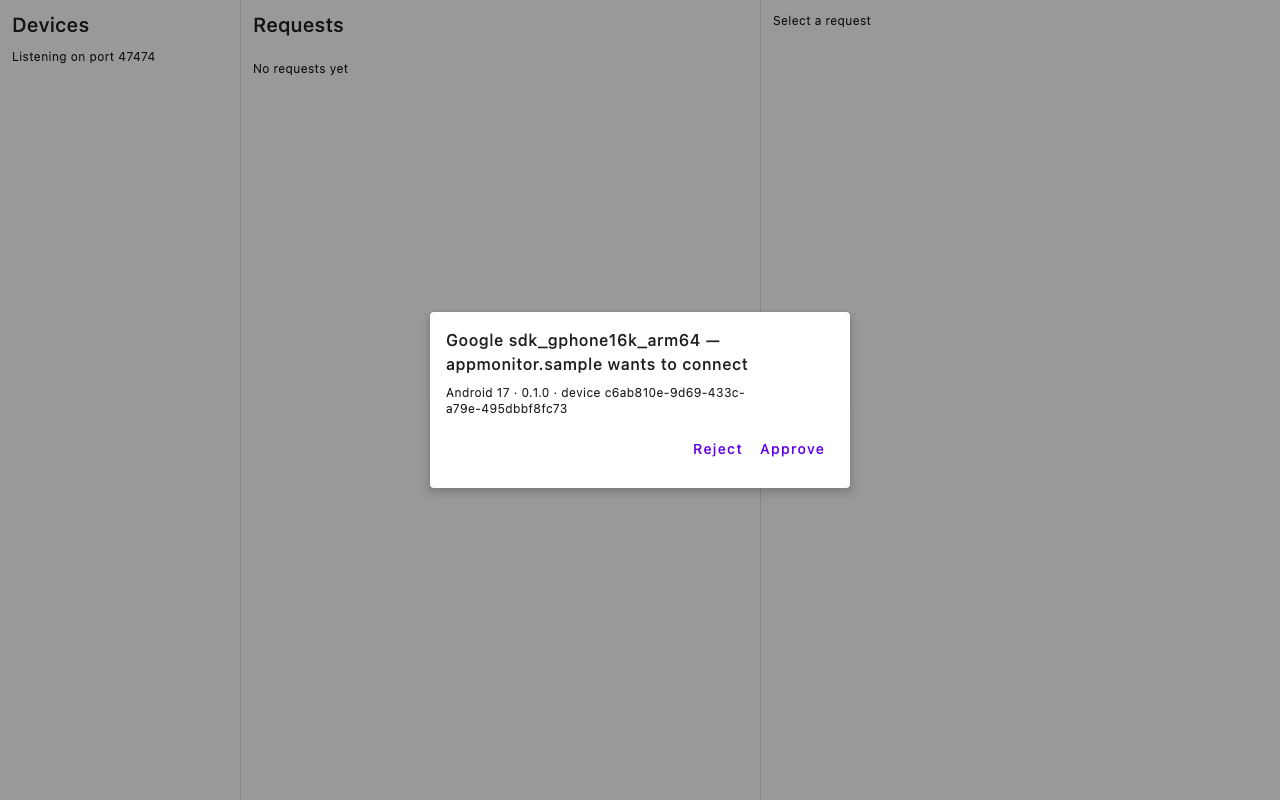
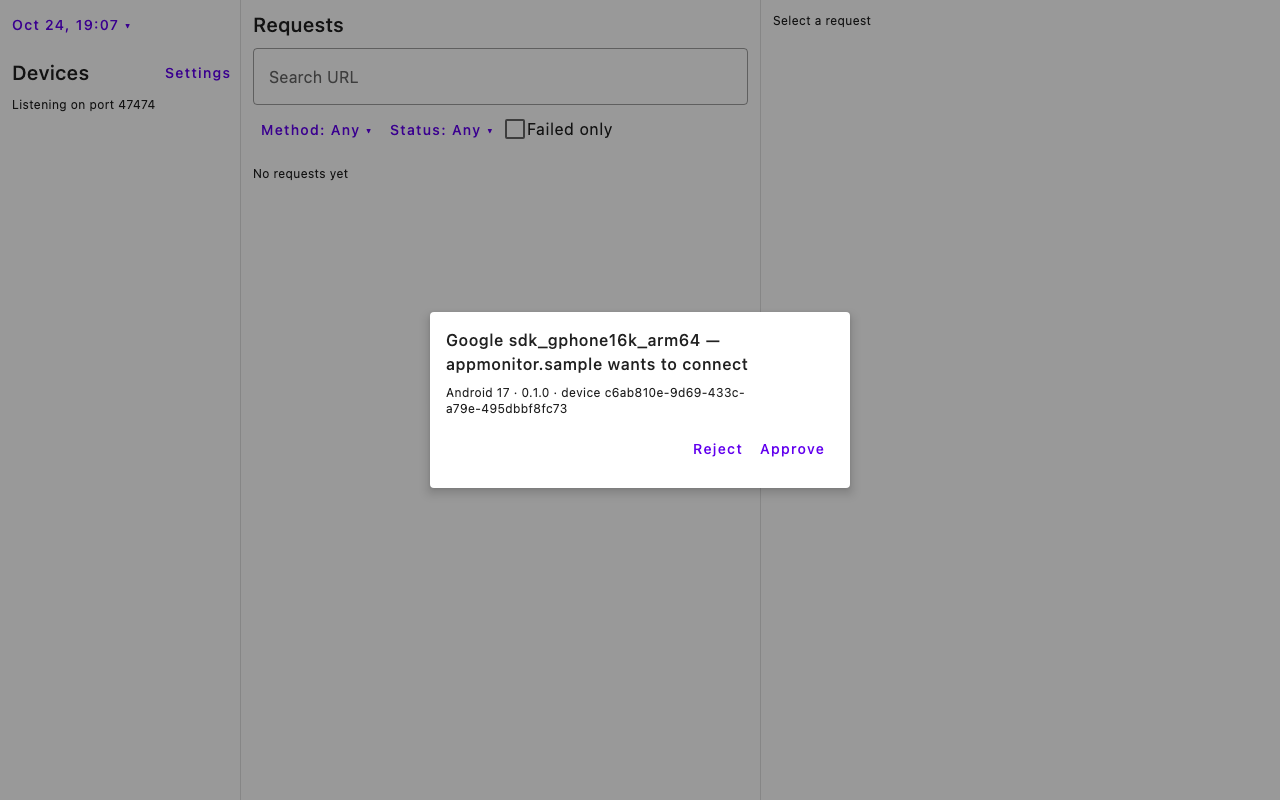
test(desktop): live check across a store reopen and the packaged app (#181)
* test(desktop): live check across a store reopen and the packaged app

* test(desktop): wait for the filtered rows instead of asserting them at once

diff --git a/desktop/app/src/test/kotlin/appmonitor/desktop/app/LiveDeviceScreenshots.kt b/desktop/app/src/test/kotlin/appmonitor/desktop/app/LiveDeviceScreenshots.kt
@@ -2,20 +2,23 @@ package appmonitor.desktop.app
 
 import androidx.compose.runtime.collectAsState
 import androidx.compose.runtime.getValue
+import androidx.compose.runtime.remember
 import androidx.compose.ui.graphics.toAwtImage
 import androidx.compose.ui.test.ComposeUiTest
 import androidx.compose.ui.test.ExperimentalTestApi
 import androidx.compose.ui.test.captureToImage
 import androidx.compose.ui.test.onAllNodesWithText
 import androidx.compose.ui.test.onFirst
+import androidx.compose.ui.test.onNodeWithTag
 import androidx.compose.ui.test.onNodeWithText
 import androidx.compose.ui.test.onRoot
 import androidx.compose.ui.test.performClick
 import androidx.compose.ui.test.v2.runDesktopComposeUiTest
+import appmonitor.desktop.app.store.ApprovalStore
 import appmonitor.desktop.app.store.TrafficStore
 import appmonitor.desktop.app.ui.AppMonitorApp
+import appmonitor.desktop.app.ui.RUNS
 import appmonitor.desktop.server.AppMonitorServer
-import appmonitor.desktop.server.DeviceApprovals
 import appmonitor.desktop.server.ServerConfig
 import appmonitor.desktop.storage.Storage
 import kotlinx.coroutines.CoroutineScope
@@ -24,6 +27,7 @@ import kotlinx.coroutines.cancel
 import kotlinx.coroutines.launch
 import kotlinx.coroutines.runBlocking
 import java.io.File
+import java.nio.file.Path
 import javax.imageio.ImageIO
 import kotlin.io.path.createTempDirectory
 import kotlin.test.Test
@@ -31,7 +35,7 @@ import kotlin.time.Duration.Companion.seconds
 
 /**
  * Not a unit test: run by `liveScreenshots` only, against a real device running the sample (ADR-0031).
- * Real server on the default port with mDNS, the window's composable rendered offscreen.
+ * Real server on the default port with mDNS, the window's composable rendered offscreen, then the store reopened.
  */
 @OptIn(ExperimentalTestApi::class)
 class LiveDeviceScreenshots {
@@ -39,13 +43,19 @@ class LiveDeviceScreenshots {
     private val exchanges = System.getProperty("liveExchanges", "5").toInt()
     private val timeoutMs = System.getProperty("liveTimeoutMs", "300000").toLong()
     private val advertise = System.getProperty("liveAdvertise", "true").toBoolean()
+    private val dir: Path = System.getProperty("liveDataDir")?.let { Path.of(it) } ?: createTempDirectory("live-screenshots")
 
     @Test
-    fun `approve a real device and show its traffic`() {
-        val approvals = DeviceApprovals()
-        val server = AppMonitorServer(ServerConfig(advertise = advertise), approval = approvals)
-        val dir = createTempDirectory("live-screenshots")
+    fun `approve a real device, show its traffic, and again after a reopen`() {
+        capture()
+        reopen()
+    }
+
+    private fun capture() {
+        lateinit var server: AppMonitorServer
         val storage = Storage.open(dir)
+        val approvals = runBlocking { ApprovalStore.open(storage) { server.disconnect(it) } }
+        server = AppMonitorServer(ServerConfig(advertise = advertise), approval = approvals.approvals)
         val store = TrafficStore(storage)
         val scope = CoroutineScope(Dispatchers.Default)
         val port = runBlocking { server.start() }
@@ -54,14 +64,16 @@ class LiveDeviceScreenshots {
             runDesktopComposeUiTest(width = 1280, height = 800) {
                 setContent {
                     val pending by approvals.pending.collectAsState()
+                    val answered by remember { approvals.stored }.collectAsState(emptyList())
                     AppMonitorApp(
                         storage,
                         "Listening on port $port",
                         pending,
-                        { device, approved -> approvals.decide(device.key, approved) },
+                        { device, approved -> scope.launch { approvals.decide(device, approved) } },
+                        answered,
                     )
                 }
-                println("liveScreenshots: listening on $port, mDNS ${if (advertise) "on" else "off"}, waiting for a device")
+                println("liveScreenshots: data in $dir, listening on $port, mDNS ${if (advertise) "on" else "off"}, waiting for a device")
                 waitUntil(timeoutMillis = timeoutMs) { onAllNodesWithText("Approve").fetchSemanticsNodes().isNotEmpty() }
                 screenshot("$name-approval.png")
                 onNodeWithText("Approve").performClick()
@@ -70,16 +82,7 @@ class LiveDeviceScreenshots {
                 waitUntil(timeoutMillis = timeoutMs) {
                     runBlocking { storage.allExchanges() }.count { it.statusCode != null || it.failed } >= exchanges
                 }
-                onAllNodesWithText("/json", substring = true).onFirst().performClick()
-                waitUntil(
-                    timeoutMillis = timeoutMs,
-                ) { onAllNodesWithText("\"slideshow\"", substring = true).fetchSemanticsNodes().isNotEmpty() }
-                screenshot("$name-traffic.png")
-                onAllNodesWithText("echo.websocket.org", substring = true).onFirst().performClick()
-                waitUntil(
-                    timeoutMillis = timeoutMs,
-                ) { onAllNodesWithText("WebSocket frames", substring = true).fetchSemanticsNodes().isNotEmpty() }
-                screenshot("$name-frames.png")
+                showJsonAndFrames()
             }
         } finally {
             scope.cancel()
@@ -89,6 +92,36 @@ class LiveDeviceScreenshots {
             }
         }
     }
+
+    private fun reopen() {
+        val storage = Storage.open(dir)
+        try {
+            runDesktopComposeUiTest(width = 1280, height = 800) {
+                setContent { AppMonitorApp(storage, "Reopened") }
+                println("liveScreenshots: store reopened, opening the earlier run")
+                onNodeWithTag(RUNS).performClick()
+                onAllNodesWithText(" – ", substring = true).onFirst().performClick()
+                waitUntil(timeoutMillis = timeoutMs) { onAllNodesWithText("/json", substring = true).fetchSemanticsNodes().isNotEmpty() }
+                onAllNodesWithText("/json", substring = true).onFirst().performClick()
+                waitFor("\"slideshow\"")
+                screenshot("$name-reopen.png")
+            }
+        } finally {
+            runBlocking { storage.close(5.seconds) }
+        }
+    }
+
+    private fun ComposeUiTest.showJsonAndFrames() {
+        onAllNodesWithText("/json", substring = true).onFirst().performClick()
+        waitFor("\"slideshow\"")
+        screenshot("$name-traffic.png")
+        onAllNodesWithText("echo.websocket.org", substring = true).onFirst().performClick()
+        waitFor("WebSocket frames")
+        screenshot("$name-frames.png")
+    }
+
+    private fun ComposeUiTest.waitFor(text: String) =
+        waitUntil(timeoutMillis = timeoutMs) { onAllNodesWithText(text, substring = true).fetchSemanticsNodes().isNotEmpty() }
 
     private fun ComposeUiTest.screenshot(file: String) {
         val out = File(System.getProperty("liveScreenshotDir"), file)

diff --git a/desktop/app/src/test/kotlin/appmonitor/desktop/app/AppMonitorAppTest.kt b/desktop/app/src/test/kotlin/appmonitor/desktop/app/AppMonitorAppTest.kt
@@ -360,14 +360,14 @@ class AppMonitorAppTest {
                 awaitText(url("feed"))
                 onNodeWithTag(SEARCH).performTextReplacement("ITEMS")
                 waitUntil(timeoutMillis = TIMEOUT_MS) { onAllNodesWithText(url("login")).fetchSemanticsNodes().isEmpty() }
-                onNodeWithText(url("items")).assertExists()
-                onNodeWithText(url("items/missing")).assertExists()
+                awaitText(url("items"))
+                awaitText(url("items/missing"))
                 onNodeWithText(url("feed")).assertDoesNotExist()
 
                 onNodeWithText("Status: Any ▾").performClick()
                 onNodeWithText("4xx").performClick()
                 waitUntil(timeoutMillis = TIMEOUT_MS) { onAllNodesWithText(url("items")).fetchSemanticsNodes().isEmpty() }
-                onNodeWithText(url("items/missing")).assertExists()
+                awaitText(url("items/missing"))
                 onNodeWithText("Status: 4xx ▾").assertExists()
                 screenshot("filters.png")
 
@@ -385,7 +385,7 @@ class AppMonitorAppTest {
                 onNodeWithText("Any").performClick()
                 onNodeWithText("Failed only").performClick()
                 waitUntil(timeoutMillis = TIMEOUT_MS) { onAllNodesWithText(url("items")).fetchSemanticsNodes().isEmpty() }
-                onNodeWithText(url("feed")).assertExists()
+                awaitText(url("feed"))
             }
         }
 

diff --git a/docs/sdd/03_code_map.md b/docs/sdd/03_code_map.md
@@ -22,7 +22,7 @@ Where each part lives in the repository.
 | `protocol/src/` | KMP module: Wire-generated code, `Protocol` constants, `DesktopSelector` (mDNS answer rule, ADR-0024); `commonTest` round-trip and selector, `jvmTest` fixture check (ADR-0008) |
 | `desktop/server/` | JVM module: `AppMonitorServer` (Ktor WebSocket, handshake, frame limit, keep-alive), `EnvelopeRules` (what closes a session with 1002, ADR-0021), `DeviceSession` flows and peer address, `DeviceApproval` / `DeviceApprovals` (who gets `HelloAck`, remembered answers and `forget`, ADR-0027), `disconnect` (a forgotten pair's sessions closed with 1008), `MdnsAdvertiser`, `ServerConfig` (ADR-0009); `shutdownHook` and its default report `printStopFailure` (bounded stop at exit, shared with the app); headless `Main.kt` that logs to stdout (ADR-0010); `AppMonitorServerTest`, `ServerHardeningTest` (1009, ping timeout, envelope rules), `DeviceApprovalTest` (pending, 1008, withdrawal, remembered, forgotten), `MdnsPartialFailureTest`, `ServerLifecycleTest`, `ShutdownHookTest`, `MainTest` (`--port` parsing, startup hook) |
 | `desktop/storage/` | JVM module, SQLDelight on sqlite-jdbc (SDD 09, ADR-0085, ADR-0086): `src/main/sqldelight/` the version-1 schema (`.sq`, one file per table group) and `databases/1.db`, the committed schema migrations are verified against; `Storage` (open, crash recovery, a new run per launch, ingest calls, runs opened and named, approvals, paged reads, search, close), `SearchQuery` (the `WHERE` of an `ExchangeFilter`, ADR-0087), `WriteQueue` (bounded by bytes, one writer thread, `StorageHealth`), `Ingest` (items to rows, one transaction per batch), `Codec` (deflate or raw), `dataDirectory`; `StorageOpenTest`, `IngestTest`, `WriteQueueTest`, `PagingTest`, `ApprovalStoreTest`, `RunsTest`, `SearchTest`, `DataDirectoryTest` |
-| `desktop/app/` | Compose desktop app: `Main.kt` (window + server), `store/` (`TrafficStore` feeding `desktop/storage`, `ApprovalStore` the answers kept in it, ADR-0083, `HttpExchange` the detail model), `ui/` (`App.kt` panes, run picker and run list, request filter bar, frames, approval panel and settings, `BodyFormat.kt` formats, off-thread `renderBody` and chunks) (ADR-0011, ADR-0029); tests for body formats, the store (`TrafficStoreTest`: 10k requests, reopen, paging), approvals across launches (`ApprovalStoreTest`) and the offscreen UI, each on a store in a temporary directory; `LiveDeviceScreenshots`, run only by `liveScreenshots` against a real device (ADR-0031) |
+| `desktop/app/` | Compose desktop app: `Main.kt` (window + server), `store/` (`TrafficStore` feeding `desktop/storage`, `ApprovalStore` the answers kept in it, ADR-0083, `HttpExchange` the detail model), `ui/` (`App.kt` panes, run picker and run list, request filter bar, frames, approval panel and settings, `BodyFormat.kt` formats, off-thread `renderBody` and chunks) (ADR-0011, ADR-0029); tests for body formats, the store (`TrafficStoreTest`: 10k requests, reopen, paging), approvals across launches (`ApprovalStoreTest`) and the offscreen UI, each on a store in a temporary directory; `LiveDeviceScreenshots`, run only by `liveScreenshots` against a real device, reopening its store at the end (ADR-0031) |
 | `tools/e2e-target/` | JVM CLI: `E2eTarget.kt` (Ktor CIO on `127.0.0.1`: the httpbin.org paths the samples call and a WebSocket echo on `/ws`), `Main.kt` (`--port`, prints `Listening on port N` and one line per request); started by `scripts/e2e_lib.sh` (ADR-0074); `E2eTargetTest` |
 | `tools/fake-client/` | JVM CLI: `Discovery.kt` (mDNS through `DesktopSelector`), `Fixtures.kt`, `Replay.kt` (handshake + replay of `protocol/fixtures`) (ADR-0010); `FakeClientTest`, `HandshakeFailureTest`, `MainTest` (CLI errors), `DiscoveryTest` |
 | `sdk/core/` | KMP (JVM, Android, iOS) SDK core, convention `appmonitor.kmp-sdk-ios` (ADR-0023, ADR-0067): `MonitorClient` (states of SDD 04 over a Ktor CIO WebSocket), `EventBuffer` (offline ring buffer), `Backoff`, `Discovery` (sources and mDNS selection, ADR-0024), `MonitorHolder` (start/stop, the process-wide `monitor`), `MonitorBridge` (opt-in `InternalAppMonitorApi` for capture modules, ADR-0025), `AppMonitorOptions` (masking and `maxBodyBytes` included), `DeviceId`, `Platform` (cleartext policy, log, connect failure hint, the device id's link and file lock); `jvmAndAndroidMain` the file lock and parent directories both JVM targets share (ADR-0080); `iosMain` `AppMonitor` (public entry point, ADR-0062 B.1), `BonjourBrowser` (`nw_browser` and `dns_sd`, ADR-0068), `IosDevice` (`Hello`, the Swift SDK's device id file), `Platform.ios` (`NSLog`, Info.plist hint), `isSimulator` from `iosArm64Main` / `iosSimulatorArm64Main`; `androidMain` `AppMonitor` (public entry point), `NsdBrowser`, `AndroidDevice` (`Hello`, permission, emulator), manifest declaring `ACCESS_LOCAL_NETWORK`; `commonTest` buffer, backoff, discovery, device id, `MonitorHolderTest`, `MonitorClientTest` against `StandInDesktop` (`ktor-server-cio`, ADR-0066 C); `iosTest` `PlatformIosTest`, `IosDeviceTest`, `IosDiscoveryTest`, `BonjourBrowserTest` (a real Bonjour round), `LiveServerTest` (`APPMONITOR_LIVE_HOST`, `APPMONITOR_LIVE_DISCOVERY`); `jvmTest` `MonitorClientDesktopTest` against an in-process `AppMonitorServer` |

diff --git a/docs/sdd/02_development_environment.md b/docs/sdd/02_development_environment.md
@@ -53,10 +53,13 @@ Module scripts apply one convention plugin from `build-logic/`:
 
 `./gradlew :desktop:app:liveScreenshots` (ADR-0031) runs the real
 `AppMonitorServer` on port 47474 with the desktop window's composable rendered
-offscreen. It waits up to 5 minutes for a device, screenshots the approval
-panel, approves it, waits for 5 finished exchanges, then screenshots the GET
-JSON and the WebSocket exchanges into `docs/screenshots/<liveName>-*.png`.
-`make desktop` must not be running (same port). The sample is driven by hand:
+offscreen, on a store and approvals like `Main.kt`'s. It waits up to 5
+minutes for a device, screenshots the approval panel, approves it (the answer
+is stored), waits for 5 finished exchanges, then screenshots the GET JSON and
+the WebSocket exchanges; it then closes the store, reopens it, picks the
+earlier run and screenshots its GET JSON again (`<liveName>-reopen.png`). All
+go into `docs/screenshots/<liveName>-*.png`. `make desktop` must not be
+running (same port). The sample is driven by hand:
 
 1. `./gradlew :samples:android:assembleDebug`, then
    `adb -s <serial> install -r samples/android/build/outputs/apk/debug/android-debug.apk`.
@@ -69,7 +72,8 @@ JSON and the WebSocket exchanges into `docs/screenshots/<liveName>-*.png`.
    `adb shell uiautomator dump`); the task ends by itself.
 
 Properties: `liveName`, `liveExchanges` (5), `liveTimeoutMs` (300000),
-`liveAdvertise` (true). The buttons call public services, so the machine and
+`liveAdvertise` (true), `liveDataDir` (a temporary directory; an empty one
+for the approval to be asked). The buttons call public services, so the machine and
 the device need internet.
 
 ### The Android sample end to end, scripted
@@ -199,6 +203,15 @@ prints, so rerun it after adding a dependency. The packages are **unsigned
 build proof**, not releases: macOS Gatekeeper and Windows SmartScreen block
 them until the user overrides (ADR-0055). The app inside listens on 47474
 like `make desktop`.
+
+To check the packaged app on a store a live run left (no Gatekeeper prompt,
+no copy to `/Applications`): mount the image with
+`hdiutil attach -readonly -nobrowse -mountpoint build/live/dmg <dmg>` and run
+`APPMONITOR_DATA_DIR=<liveDataDir> "build/live/dmg/App Monitor.app/Contents/MacOS/App Monitor"`.
+The launch opens a run of its own in the `runs` table, a device approved in
+the live run connects with no prompt and its exchanges land under that run;
+`sqlite3 <liveDataDir>/appmonitor.db` reads them, and a SIGTERM closes the run
+and the sessions. `hdiutil detach build/live/dmg` afterwards.
 
 ## SDK publication dry-run
 

diff --git a/AGENTS.md b/AGENTS.md
@@ -131,7 +131,7 @@ Full rule: `docs/guidelines/03_git_and_pull_requests.md`.
 | Desktop storage tests (open, ingest, write queue, paging, approvals, runs, search, data directory) and migration verification | `./gradlew :desktop:storage:test :desktop:storage:verifySqlDelightMigration` | active; JVM, in `make build`; temporary data directories; SDD 09, ADR-0085 |
 | Regenerate the storage schema dump after a new migration | `./gradlew :desktop:storage:generateMainAppMonitorDatabaseSchema` | active; writes the next `desktop/storage/src/main/sqldelight/databases/<version>.db`, commit it; a shipped one is never edited; ADR-0085 |
 | Desktop app tests (store on a temporary data directory, body formats, offscreen UI) | `./gradlew :desktop:app:test` | active; screenshots in `desktop/app/build/screenshots/` (`app.png`, `approval.png`, `filters.png`, `frames.png`, `reopen.png`, `runs.png`, `settings.png`); `TrafficStoreTest` prints the 10k-request time, `SearchTest` in `desktop/storage` the unindexed search time, `ApprovalStoreTest` restarts the store three times against a real server; SDD 09, ADR-0083 |
-| End to end screenshots from a real device or emulator | `./gradlew :desktop:app:liveScreenshots -PliveName=device` | active; real server on 47474, approves the first device, writes `docs/screenshots/<name>-*.png`; `-PliveAdvertise=false` forces the emulator's `10.0.2.2`; drive the sample by hand, SDD 02, ADR-0031 |
+| End to end screenshots from a real device or emulator | `./gradlew :desktop:app:liveScreenshots -PliveName=device` | active; real server on 47474, approves the first device, writes `docs/screenshots/<name>-*.png`, the last after reopening the store; `-PliveDataDir=<dir>` keeps the store for the packaged app (SDD 02); `-PliveAdvertise=false` forces the emulator's `10.0.2.2`; drive the sample by hand, SDD 02, ADR-0031 |
 | Headless desktop server, logs envelopes to stdout | `make server` | active; `ARGS="--port N"` |
 | Replay fixture traffic to a desktop | `make fake-traffic` | active; mDNS discovery, or `ARGS="--host H [--port N]"`; `--name S` picks a service, `--timeout MS` bounds discovery |
 | Local end to end target tests (httpbin.org paths, WebSocket echo) | `./gradlew :tools:e2e-target:test` | active; started by `make e2e-android` and `make e2e-ios` on `127.0.0.1`, port 0; ADR-0074 |

diff --git a/docs/plans/0006-persistence-and-runs.md b/docs/plans/0006-persistence-and-runs.md
@@ -85,7 +85,7 @@ lesson); `make debt-check` decides how each fired DEBT is handled
   applied at startup and while the app runs, clear everything.
   Accept: `./gradlew :desktop:storage:test` with a controlled clock and
   size, the oldest data deleted first and what M5.1 (b) keeps kept.
-- [ ] **M5.9 Live check.** `liveScreenshots` (ADR-0031) and a hand run of
+- [x] **M5.9 Live check.** (`liveScreenshots` now uses an `ApprovalStore`, keeps its store in `-PliveDataDir` and ends with a `<name>-reopen.png` after reopening it; emulator (API 37, `10.0.2.2`) and iPhone 17 Pro simulator (mDNS) refreshed, no phone attached so `device-*.png` kept from M1; the packaged app, run from the mounted DMG on the simulator's store with `APPMONITOR_DATA_DIR`, let the approved device in with no prompt and stored its 7 exchanges in its own run, then reopened the 14 after a quit; no Screen Recording permission, so shown in the PR by its database rows, not a window capture) `liveScreenshots` (ADR-0031) and a hand run of
   a sample against `make desktop` across a restart; the packaged app
   (`packageDmg`) opens its database.
   Accept: `docs/screenshots/` updated; the packaged app run shown in the
